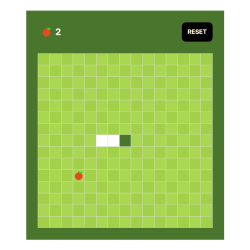
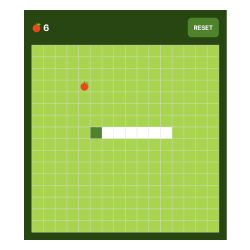
스네이크 - 스타일 수정

diff --git a/src/tool/snake.tool.ts b/src/tool/snake.tool.ts
@@ -3,12 +3,12 @@ import { BodyType } from '@/redux/snake/snake.type'
 
 /* 랜덤으로 과일 위치 설정 */
 export const RandomFruit = (body: BodyType[]) => {
-    let randomX = Math.floor(Math.random() * 15)
-    let randomY = Math.floor(Math.random() * 15)
+    let randomX = Math.floor(Math.random() * 16)
+    let randomY = Math.floor(Math.random() * 16)
 
     while (body.filter((item) => item.x === randomX && item.y === randomY).length > 0) {
-        randomX = Math.floor(Math.random() * 15)
-        randomY = Math.floor(Math.random() * 15)
+        randomX = Math.floor(Math.random() * 16)
+        randomY = Math.floor(Math.random() * 16)
     }
 
     return { x: randomX, y: randomY }
@@ -45,7 +45,6 @@ export const CheckUp = (body: BodyType[]) => {
 
     /* 한 칸 위에 몸통이 위치하고 있는 경우 */
     if (body.filter((item) => item.x === body[0].x && item.y === body[0].y - 1).length > 0) {
-        console.log('test')
         // 한 칸 위에 위치한 몸통이 마지막 몸통이 아닌 경우
         if (body.findIndex((item) => item.x === body[0].x && item.y === body[0].y - 1) !== body.length - 1) {
             isMove = false
@@ -60,7 +59,7 @@ export const CheckDown = (body: BodyType[]) => {
     let isMove = true
 
     // 머리가 아래쪽 벽에 붙어 있는 경우
-    if (body[0].y === 14) {
+    if (body[0].y === 15) {
         isMove = false
     }
 
@@ -100,7 +99,7 @@ export const CheckRight = (body: BodyType[]) => {
     let isMove = true
 
     // 머리가 오른쪽 벽에 붙어 있는 경우
-    if (body[0].x === 14) {
+    if (body[0].x === 15) {
         isMove = false
     }
 

diff --git a/src/component/snake/board/item/board-item.style.ts b/src/component/snake/board/item/board-item.style.ts
@@ -1,24 +1,33 @@
 import styled from 'styled-components'
 
 export namespace BoardItemStyle {
-    export const Container = styled.div<{ isEven: boolean; isHead: boolean; isBody: boolean }>`
-        ${({ theme, isEven, isHead, isBody }) => `
-            width: 30px;
-            height: 30px;
+    export const Container = styled.div<{ head: boolean; body: boolean }>`
+        ${({ theme, head, body }) => `
             display: grid;
             align-items: center;
             justify-items: center;
-            background-color: ${
-                isHead
-                    ? theme.color.darkgreen
-                    : isBody
-                      ? theme.color.white
-                      : isEven
-                        ? theme.color.green
-                        : theme.color.lightgreen
-            };
-            border-right: 1px solid ${theme.color.lightgray};
-            border-bottom: 1px solid ${theme.color.lightgray};
+            background-color: ${head ? theme.color.green : body ? theme.color.white : theme.color.lightgreen};
+            border: 1px solid ${theme.color.lightgray};
+
+            ${theme.ratio.size({
+                web: `
+                    width: 30px;
+                    height: 30px;
+                `,
+                tablet: `
+                    width: 30px;
+                    height: 30px;
+                `,
+                mobile: `
+                    width: 25px;
+                    height: 25px;
+                `
+            })}
         `}
+    `
+
+    export const Fruit = styled.div`
+        width: 80%;
+        height: 80%;
     `
 }

diff --git a/src/component/snake/board/board.view.tsx b/src/component/snake/board/board.view.tsx
@@ -11,23 +11,22 @@ export function Board() {
 
     return (
         <BoardStyle.Container>
-            {[...Array(15)].map((num, rowIndex) => (
+            {[...Array(16)].map((num, rowIndex) => (
                 <React.Fragment key={rowIndex}>
-                    {[...Array(15)].map((num, colIndex) => (
+                    {[...Array(16)].map((num, colIndex) => (
                         <BoardItem
                             key={colIndex}
-                            isEven={(rowIndex * 15 + colIndex) % 2 === 0}
-                            isHead={
+                            head={
                                 snake.body.filter(
                                     (item: BodyType, index: number) =>
                                         index === 0 && item.x === colIndex && item.y === rowIndex
                                 ).length > 0
                             }
-                            isBody={
+                            body={
                                 snake.body.filter((item: BodyType) => item.x === colIndex && item.y === rowIndex)
                                     .length > 0
                             }
-                            isFruit={snake.fruit.x === colIndex && snake.fruit.y === rowIndex}
+                            fruit={snake.fruit.x === colIndex && snake.fruit.y === rowIndex}
                         />
                     ))}
                 </React.Fragment>

diff --git a/src/component/common/result/result.style.ts b/src/component/common/result/result.style.ts
@@ -1,21 +1,22 @@
 import styled from 'styled-components'
 
 export namespace ResultStyle {
+    export const Background = styled.div`
+        position: absolute;
+        top: 0;
+        bottom: 0;
+        left: 0;
+        right: 0;
+        display: grid;
+        justify-items: center;
+        align-items: center;
+    `
+
     export const Container = styled.div`
         ${({ theme }) => `
-            width: 250px;
-            height: 90px;
-            position: absolute;
-            top: calc(50% - 45px);
-            left: calc(50% - 125px);
-            display: grid;
-            justify-items: center;
-            align-items: center;
-            padding: 0 8px;
             background-color: ${theme.color.white};
             border: 5px solid ${theme.color.red};
-            ${theme.font.headline1};
-            color: ${theme.color.red};
+            padding: 10px;
         `}
     `
 
@@ -23,8 +24,14 @@ export namespace ResultStyle {
         ${({ theme }) => `
             width: 100%;
             border: 3px dashed ${theme.color.red};
-            text-align: center;
-            padding: 10px;
+            padding: 15px 25px;
+        `}
+    `
+
+    export const Text = styled.p`
+        ${({ theme }) => `
+            ${theme.font.headline1};
+            color: ${theme.color.red};
         `}
     `
 }

diff --git a/src/page/snake/snake.view.tsx b/src/page/snake/snake.view.tsx
@@ -1,23 +1,23 @@
-import { Home } from '@/src/component/common/home/home.view'
 import { SnakeStyle } from './snake.style'
 import { Board } from '@/src/component/snake/board/board.view'
-import { Info } from '@/src/component/snake/info/info.view'
+import { Count } from '@/src/component/snake/count/count.view'
 import { Button } from '@/src/component/snake/button/button.view'
 import { useSnake } from './snake.hook'
+import { Layout } from '@/src/component/common/layout/layout.view'
 
 export function Snake() {
     const { events } = useSnake()
 
     return (
-        <SnakeStyle.Container>
-            <Home />
-            <SnakeStyle.SafetyContainer>
+        <Layout>
+            <SnakeStyle.Container>
                 <SnakeStyle.TopContainer>
-                    <Info />
+                    <Count />
                     <Button name={'RESET'} clickCallback={events.onClickButton} />
                 </SnakeStyle.TopContainer>
+
                 <Board />
-            </SnakeStyle.SafetyContainer>
-        </SnakeStyle.Container>
+            </SnakeStyle.Container>
+        </Layout>
     )
 }

diff --git a/src/component/snake/board/board.style.ts b/src/component/snake/board/board.style.ts
@@ -5,10 +5,22 @@ export namespace BoardStyle {
         ${({ theme }) => `
             position: relative;
             display: grid;
-            grid-template-rows: repeat(15, 30px);
-            grid-template-columns: repeat(15, 30px);
-            border-top: 1px solid ${theme.color.lightgray};
-            border-left: 1px solid ${theme.color.lightgray};
+            border: 1px solid ${theme.color.lightgray};
+
+            ${theme.ratio.size({
+                web: `
+                    grid-template-rows: repeat(16, 30px);
+                    grid-template-columns: repeat(16, 30px);
+                `,
+                tablet: `
+                    grid-template-rows: repeat(16, 30px);
+                    grid-template-columns: repeat(16, 30px);
+                `,
+                mobile: `
+                    grid-template-rows: repeat(16, 25px);
+                    grid-template-columns: repeat(16, 25px);
+                `
+            })}
         `}
     `
 }

diff --git a/src/component/snake/board/item/board-item.view.tsx b/src/component/snake/board/item/board-item.view.tsx
@@ -1,20 +1,14 @@
 import { Image } from '@/src/component/common/image/image.view'
 import { BoardItemStyle } from './board-item.style'
 
-export function BoardItem({
-    isEven,
-    isHead,
-    isBody,
-    isFruit
-}: {
-    isEven: boolean
-    isHead: boolean
-    isBody: boolean
-    isFruit: boolean
-}) {
+export function BoardItem({ head, body, fruit }: { head: boolean; body: boolean; fruit: boolean }) {
     return (
-        <BoardItemStyle.Container isEven={isEven} isHead={isHead} isBody={isBody}>
-            {isFruit && <Image src={'/icons/snake/fruit.png'} alt="icon" />}
+        <BoardItemStyle.Container head={head} body={body}>
+            {fruit && (
+                <BoardItemStyle.Fruit>
+                    <Image src={'/icons/snake/fruit.png'} alt="icon" />
+                </BoardItemStyle.Fruit>
+            )}
         </BoardItemStyle.Container>
     )
 }

diff --git a/src/component/snake/count/count.view.tsx b/src/component/snake/count/count.view.tsx
@@ -1,14 +1,14 @@
 import { useSelector } from 'react-redux'
 import { Image } from '../../common/image/image.view'
-import { InfoStyle } from './info.style'
+import { CountStyle } from './count.style'
 
-export function Info() {
+export function Count() {
     const snake = useSelector((state: any) => state.snake)
 
     return (
-        <InfoStyle.Container>
+        <CountStyle.Container>
             <Image src={'/icons/snake/fruit.png'} alt="icon" />
-            <InfoStyle.Count>{snake.count}</InfoStyle.Count>
-        </InfoStyle.Container>
+            <CountStyle.Text>{snake.count}</CountStyle.Text>
+        </CountStyle.Container>
     )
 }

diff --git a/src/component/snake/button/button.style.ts b/src/component/snake/button/button.style.ts
@@ -3,13 +3,17 @@ import styled from 'styled-components'
 export namespace ButtonStyle {
     export const Container = styled.div`
         ${({ theme }) => `
-            background-color: ${theme.color.black};
+            background-color: ${theme.color.green};
             border-radius: 10px;
-            ${theme.font.title3};
-            text-align: center;
-            color: ${theme.color.white};
             padding: 15px;
             cursor: pointer;
+        `}
+    `
+
+    export const Text = styled.p`
+        ${({ theme }) => `
+            ${theme.font.title3};
+            color: ${theme.color.white};
         `}
     `
 }

diff --git a/src/component/common/result/result.view.tsx b/src/component/common/result/result.view.tsx
@@ -2,8 +2,12 @@ import { ResultStyle } from './result.style'
 
 export function Result({ message }: { message: string }) {
     return (
-        <ResultStyle.Container>
-            <ResultStyle.SafetyContainer>{message}</ResultStyle.SafetyContainer>
-        </ResultStyle.Container>
+        <ResultStyle.Background>
+            <ResultStyle.Container>
+                <ResultStyle.SafetyContainer>
+                    <ResultStyle.Text>{message}</ResultStyle.Text>
+                </ResultStyle.SafetyContainer>
+            </ResultStyle.Container>
+        </ResultStyle.Background>
     )
 }

diff --git a/src/component/common/layout/layout.view.tsx b/src/component/common/layout/layout.view.tsx
@@ -1,0 +1,17 @@
+import { Image } from '../image/image.view'
+import { useLayout } from './layout.hook'
+import { LayoutStyle } from './layout.style'
+
+export function Layout({ children }: { children: React.ReactNode }) {
+    const { events } = useLayout()
+
+    return (
+        <LayoutStyle.Container>
+            <LayoutStyle.Home onClick={events.onMoveToHome}>
+                <Image src={'/icons/common/home.png'} alt="icon" />
+            </LayoutStyle.Home>
+
+            {children}
+        </LayoutStyle.Container>
+    )
+}

diff --git a/src/page/snake/snake.style.ts b/src/page/snake/snake.style.ts
@@ -2,16 +2,10 @@ import styled from 'styled-components'
 
 export namespace SnakeStyle {
     export const Container = styled.div`
-        display: grid;
-        justify-items: center;
-        padding: 20px;
-    `
-
-    export const SafetyContainer = styled.div`
         ${({ theme }) => `
             display: grid;
-            gap: 10px;
-            padding: 30px;
+            gap: 20px;
+            padding: 20px;
             background-color: ${theme.color.darkgreen};
         `}
     `
